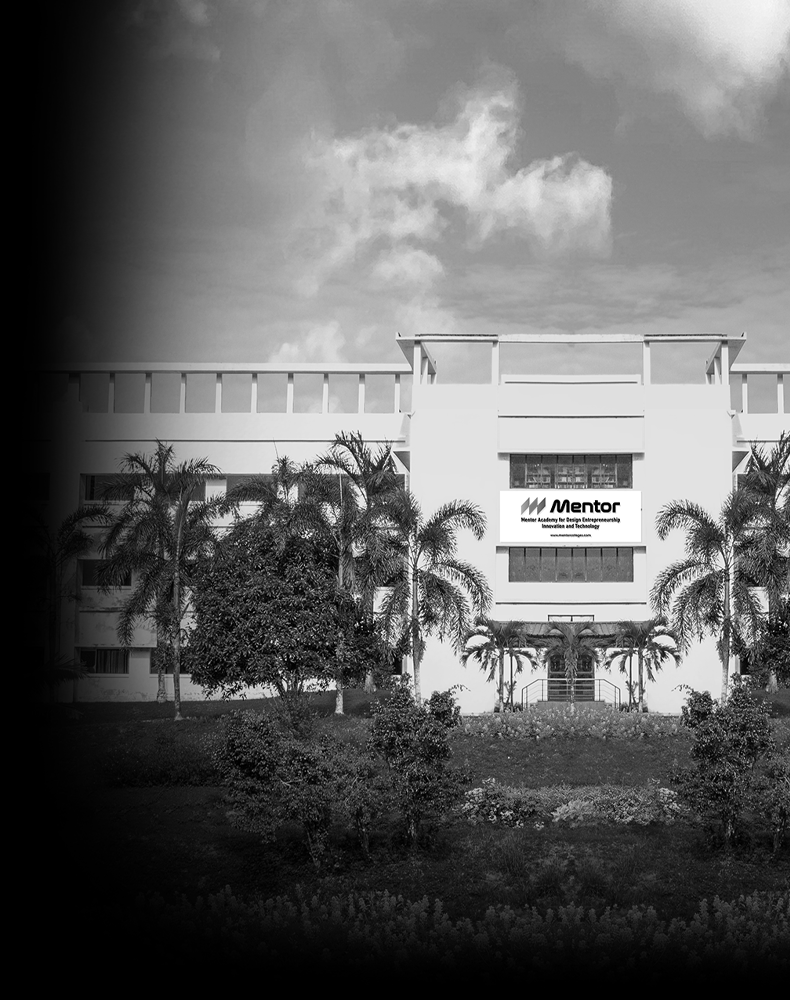
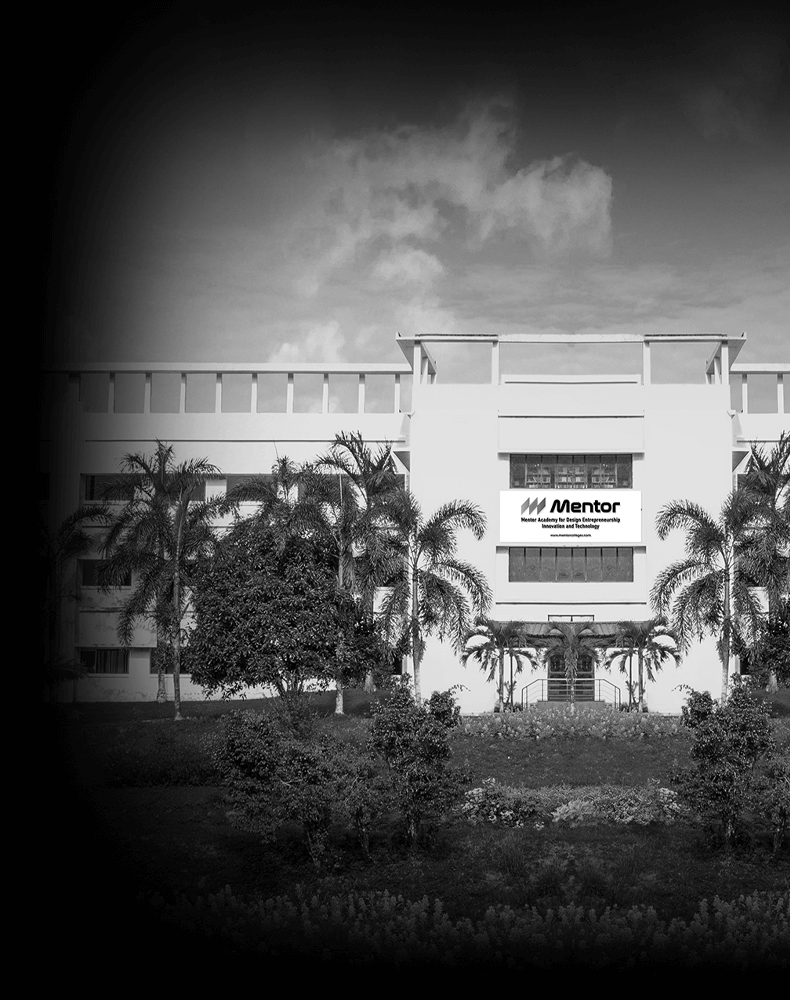
changes

Changed region(s): [[0.1215, 0.0, 1.0, 0.279]]

diff --git a/src/pages/contact/index.tsx b/src/pages/contact/index.tsx
@@ -16,24 +16,19 @@ const Contact: React.FC = () => {
           Reach out to us by filling the form below
         </div>
         <div className={"row"} mt-5>
-          <div className={`col-lg-8 col-md-12 col-sm-12 ${style.form_section}`}>
+          <div className={`col-xl-8 col-lg-7 col-md-12 col-sm-12 ${style.form_section}`}>
             <div className={`${style.icon_form}`}>
               <ContactForm />
             </div>
           </div>
-          <div className={`col-lg-4 col-md-12 col-sm-12 ${style.addr_section}`}>
+          <div className={`col-xl-4 col-lg-5 col-md-12 col-sm-12 ${style.addr_section}`}>
             <div className={`${style.loc_sec}`}>
               <div className={`${style.addr_icons}`}>
                 <CiLocationOn />
               </div>
               <div className={`${style.addr_detail}`}>
-                Mentor College
-                <br />
-                Ettapilly Mannathoor(PO)
-                <br />
-                Pampakuda via Muvattupuzha
-                <br />
-                Ernakulam Kerala 686667
+                Ettapilly, Mannathoor P.O. <br/> Pampakuda via Muvattupuzha, <br />
+                Ernakulam,Kerala, INDIA.<br /> PIN: 686667.
               </div>
             </div>
 
@@ -42,7 +37,7 @@ const Contact: React.FC = () => {
                 <BsTelephone />
               </div>
               <div className={`${style.addr_detail}`}>
-                <Link href="tel:+91 7034866111">+91 7034866111</Link>,
+                <Link href="tel:+91 7034866111">+91 7034866111 , </Link>
                 <Link href="tel:+91 7034 733 111">+91 7034733111</Link>
               </div>
             </div>

diff --git a/src/pages/contact/Contact.module.scss b/src/pages/contact/Contact.module.scss
@@ -29,6 +29,7 @@
             display: flex;
             align-items: center;
             font-family: " Be Vietnam Pro", sans-serif;
+            // flex-wrap: nowrap;
             a{
                 color: inherit;
             }
@@ -46,6 +47,27 @@
         background-color: #474DD4;
         font-size: _rem(30px);
         margin-right: 35px;
+      }
+      @include extra-large-screen{
+        .loc_sec{
+            .addr_detail{
+                flex-direction: column;
+            }
+        }
+      }
+      @include small-screen{
+        .loc_sec{
+            .addr_detail{
+               flex-direction: row;
+            }
+        }
+      }
+      @include phone{
+        .loc_sec{
+            .addr_detail{
+               flex-direction: column;
+            }
+        }
       }
 }
 @media only screen and (max-width:600px){

diff --git a/src/compnents/footer/index.tsx b/src/compnents/footer/index.tsx
@@ -62,8 +62,8 @@ const Footer: React.FC = () => {
                   </div>
                   <div className={style.address}>
                     Ettapilly, Mannathoor P.O., Pampakuda via Muvattupuzha,
-                    Ernakulam,Kerala, INDIA. PIN: 686 667. <br /> Contact :
-                    <Link href="tel:+91 7034866111">+91 7034866111</Link>,
+                    Ernakulam,Kerala, INDIA. PIN: 686667. <br /> Contact :
+                    <Link href="tel:+91 7034866111">+91 7034866111</Link> , 
                     <Link href="tel:+91 7034 733 111">+91 7034733111</Link>
                   </div>
                 </div>

diff --git a/src/compnents/about-banner/AboutBanner.module.scss b/src/compnents/about-banner/AboutBanner.module.scss
@@ -6,14 +6,14 @@
     background-image: url("../../assets/About.png");
     background-position: right;
     background-repeat: no-repeat;
-    object-fit: contain;
+    object-fit: cover;
     .inner_wrapper {
         position: absolute;
         left: 0;
         right: 0;
         top: 0;
         bottom: 0;
-        background: linear-gradient(45deg, #000000 45.98%, rgba(0, 0, 0, 0) 86.8%);
+        background: linear-gradient(to bottom, rgb(0, 0, 0) 0%, rgb(0, 0, 0) 0%, rgba(0, 0, 0, 0) 70%);
         .content_wrapper {
             padding-top: 100px;
             max-width: 696px;

diff --git a/src/compnents/contactpage-contact-form/Contactfrom.module.scss b/src/compnents/contactpage-contact-form/Contactfrom.module.scss
@@ -29,5 +29,10 @@
         width: 100%;
         padding: 20px;
         color: #F4F4F4;
+        transition: all ease 0.5s;
+        &:hover{
+          background-color: #00313c;
+          transition: all ease 0.5s;
+        }
     }
 }

diff --git a/src/compnents/newsletter-form/NewsletterForm.module.scss b/src/compnents/newsletter-form/NewsletterForm.module.scss
@@ -26,5 +26,10 @@
     border: 1px solid #c1c1c1;
     outline: none;
     color: #c1c1c1;
+    transition: all ease 0.5s;
+    &:hover{
+      background-color: #00313c;
+      transition: all ease 0.5s;
+    }
   }
 }
